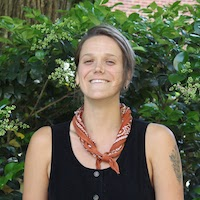
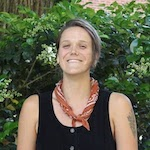
jpg > png

diff --git a/docs/js/app.14bae1c5.js b/docs/js/app.14bae1c5.js
@@ -1,0 +1,2 @@
+(function(e){function t(t){for(var i,o,s=t[0],c=t[1],p=t[2],l=0,g=[];l<s.length;l++)o=s[l],n[o]&&g.push(n[o][0]),n[o]=0;for(i in c)Object.prototype.hasOwnProperty.call(c,i)&&(e[i]=c[i]);f&&f(t);while(g.length)g.shift()();return r.push.apply(r,p||[]),a()}function a(){for(var e,t=0;t<r.length;t++){for(var a=r[t],i=!0,s=1;s<a.length;s++){var c=a[s];0!==n[c]&&(i=!1)}i&&(r.splice(t--,1),e=o(o.s=a[0]))}return e}var i={},n={app:0},r=[];function o(t){if(i[t])return i[t].exports;var a=i[t]={i:t,l:!1,exports:{}};return e[t].call(a.exports,a,a.exports,o),a.l=!0,a.exports}o.m=e,o.c=i,o.d=function(e,t,a){o.o(e,t)||Object.defineProperty(e,t,{enumerable:!0,get:a})},o.r=function(e){"undefined"!==typeof Symbol&&Symbol.toStringTag&&Object.defineProperty(e,Symbol.toStringTag,{value:"Module"}),Object.defineProperty(e,"__esModule",{value:!0})},o.t=function(e,t){if(1&t&&(e=o(e)),8&t)return e;if(4&t&&"object"===typeof e&&e&&e.__esModule)return e;var a=Object.create(null);if(o.r(a),Object.defineProperty(a,"default",{enumerable:!0,value:e}),2&t&&"string"!=typeof e)for(var i in e)o.d(a,i,function(t){return e[t]}.bind(null,i));return a},o.n=function(e){var t=e&&e.__esModule?function(){return e["default"]}:function(){return e};return o.d(t,"a",t),t},o.o=function(e,t){return Object.prototype.hasOwnProperty.call(e,t)},o.p="/";var s=window["webpackJsonp"]=window["webpackJsonp"]||[],c=s.push.bind(s);s.push=t,s=s.slice();for(var p=0;p<s.length;p++)t(s[p]);var f=c;r.push([0,"chunk-vendors"]),a()})({0:function(e,t,a){e.exports=a("cd49")},"034f":function(e,t,a){"use strict";var i=a("64a9"),n=a.n(i);n.a},"0dca":function(e,t,a){e.exports=a.p+"img/ufo.591753f5.gif"},"11ed":function(e,t,a){e.exports=a.p+"img/circuitboard.02f24088.jpg"},"1d16":function(e,t,a){e.exports=a.p+"img/meeee.9c725b47.jpg"},"1dc9":function(e,t,a){e.exports=a.p+"img/computer.efbd3b55.gif"},"1fa1":function(e,t,a){e.exports=a.p+"img/ella.69514ef7.jpg"},"24fa":function(e,t,a){e.exports=a.p+"img/gabe.80bfa76f.jpg"},"3b67":function(e,t,a){e.exports=a.p+"img/beezus.05785808.jpg"},"44c3":function(e,t,a){e.exports=a.p+"img/beau.1d4bcc6d.jpg"},"49c2":function(e,t,a){e.exports=a.p+"img/salmi.a2770a32.jpg"},"4ac8":function(e,t,a){e.exports=a.p+"img/ashley.92acf7e0.jpg"},5064:function(e,t,a){e.exports=a.p+"img/outofworld.2a2b74ed.gif"},"5d90":function(e,t,a){e.exports=a.p+"img/alan.59ff56a8.jpg"},"5ddb":function(e,t,a){e.exports=a.p+"img/redspacewebsite.a7899072.gif"},"64a9":function(e,t,a){},6607:function(e,t,a){e.exports=a.p+"img/mcvey.ec59c482.jpg"},7747:function(e,t,a){e.exports=a.p+"img/spaceshuttle.5e963f39.gif"},"7a98":function(e,t,a){"use strict";var i=a("9fdb"),n=a.n(i);n.a},"7be1":function(e,t,a){e.exports=a.p+"img/anthony.df59fc5e.jpg"},"82ae":function(e,t,a){e.exports=a.p+"img/ty.fffbc2c2.jpg"},"858c":function(e,t,a){e.exports=a.p+"img/georgia.ad725f4e.jpg"},"8d19":function(e,t,a){"use strict";var i=a("b733"),n=a.n(i);n.a},"9b5b":function(e,t,a){e.exports=a.p+"img/nam.e0a76e90.jpg"},"9bc1":function(e,t,a){e.exports=a.p+"img/pat.fbf27f7d.jpg"},"9fdb":function(e,t,a){},a0fa:function(e,t,a){e.exports=a.p+"img/flames.cea97b35.gif"},a5fb:function(e,t,a){e.exports=a.p+"img/pete.04b152ee.jpg"},a89d:function(e,t,a){e.exports=a.p+"img/sandy.0f112523.jpg"},abaf:function(e,t,a){e.exports=a.p+"img/kyle.54839a27.jpg"},ad9a:function(e,t,a){e.exports=a.p+"img/flashinglight.6b1b6b8d.gif"},aeb6:function(e,t,a){var i={"./alan.jpg":"5d90","./anthony.jpg":"7be1","./ashley.jpg":"4ac8","./beau.jpg":"44c3","./beezus.jpg":"3b67","./bluerock.jpg":"b068","./circuitboard.jpg":"11ed","./clea.jpg":"cf1f","./cody.jpg":"f69a","./computer.gif":"1dc9","./doot.gif":"e241","./duke.jpg":"bc44","./ella.jpg":"1fa1","./flames.gif":"a0fa","./flashinglight.gif":"ad9a","./floppy.gif":"f373","./gabe.jpg":"24fa","./georgia.jpg":"858c","./hackett.jpg":"f443","./hannah.jpg":"b3f7","./jenny.jpg":"d69b","./jonny.jpg":"dbe9","./kat.jpg":"cf8b","./kyle.jpg":"abaf","./lightning.gif":"de64","./mcvey.jpg":"6607","./meeee.jpg":"1d16","./nam.jpg":"9b5b","./outofworld.gif":"5064","./pat.jpg":"9bc1","./pete.jpg":"a5fb","./redspacewebsite.gif":"5ddb","./ryan.jpg":"b0e8","./salmi.jpg":"49c2","./sandy.jpg":"a89d","./spaceshuttle.gif":"7747","./stars.jpg":"dab0","./sydney.jpg":"e4c6","./ty.jpg":"82ae","./ufo.gif":"0dca","./zach.jpg":"da5c"};function n(e){var t=r(e);return a(t)}function r(e){var t=i[e];if(!(t+1)){var a=new Error("Cannot find module '"+e+"'");throw a.code="MODULE_NOT_FOUND",a}return t}n.keys=function(){return Object.keys(i)},n.resolve=r,e.exports=n,n.id="aeb6"},b068:function(e,t,a){e.exports=a.p+"img/bluerock.d6141890.jpg"},b0e8:function(e,t,a){e.exports=a.p+"img/ryan.4c1b44d3.jpg"},b3f7:function(e,t,a){e.exports=a.p+"img/hannah.6d48d3ad.jpg"},b733:function(e,t,a){},bc44:function(e,t,a){e.exports=a.p+"img/duke.923c68a8.jpg"},cb3d:function(e,t,a){},cd49:function(e,t,a){"use strict";a.r(t);a("cadf"),a("551c"),a("f751"),a("097d");var i=a("2b0e"),n=function(){var e=this,t=e.$createElement,a=e._self._c||t;return a("div",{attrs:{id:"space-heater"}},[a("Roster")],1)},r=[],o=a("d225"),s=a("308d"),c=a("6bb5"),p=a("4e2b"),f=a("9ab4"),l=a("60a3"),g=function(){var e=this,t=e.$createElement,i=e._self._c||t;return i("main",{ref:"roster",staticClass:"roster"},[i("header",[e._m(0),i("img",{attrs:{src:a("e241")}}),i("h1",[e._v("\n\t\t\tSpace Heater "),i("blink",[e._v("Ultimate")]),i("br"),i("img",{attrs:{src:a("5ddb")}})],1),i("img",{attrs:{src:a("e241")}}),i("img",{staticClass:"lightning",attrs:{src:a("de64")}})]),i("marquee",[e._v("Keeping things warm...")]),i("img",{attrs:{src:a("1dc9")}}),i("img",{attrs:{src:a("f373")}}),i("img",{attrs:{src:a("ad9a"),height:"50",width:"50"}}),i("img",{attrs:{src:a("7747")}}),i("section",[i("h1",{staticClass:"roster-heading"},[e._v("2019 Roster")]),e._m(1),i("ul",{staticClass:"player-list"},e._l(e.players,function(t){return i("li",{key:t.firstName+t.lastName},[i("Player",e._b({},"Player",t,!1))],1)}),0),i("img",{attrs:{src:a("a0fa")}}),i("img",{attrs:{src:a("a0fa")}}),i("img",{attrs:{src:a("a0fa")}})]),i("UFO")],1)},u=[function(){var e=this,t=e.$createElement,a=e._self._c||t;return a("nav",[a("ul",[a("li",[a("a",{attrs:{href:"team.html"}},[e._v("Team Bio")])]),a("li",[a("a",{attrs:{href:"schedule.html"}},[e._v("Tournament Schedule")])]),a("li",[a("a",{attrs:{href:"archives.html"}},[e._v("Roster Archives")])]),a("li",[a("a",{attrs:{href:"listserv.html"}},[e._v("Join our mailing list!")])])])])},function(){var e=this,t=e.$createElement,a=e._self._c||t;return a("dl",{staticClass:"key"},[a("dt",{staticClass:"key-symbol"},[e._v("*")]),a("dd",{staticClass:"key-meaning"},[e._v("Rookie")]),a("dt",{staticClass:"key-symbol"},[e._v("**")]),a("dd",{staticClass:"key-meaning"},[e._v("Captain")])])}],m=(a("55dd"),function(){var e=this,t=e.$createElement,a=e._self._c||t;return a("article",{ref:"el",staticClass:"player",attrs:{id:e.id}},[a("h1",{staticClass:"player-name"},[e.coach?a("span",[e._v("Coach")]):e._e(),e._v("\n\t\t"+e._s(e.firstName)+"\n\t\t"+e._s(e.lastName)+"\n\t\t"),e.rookie?a("span",[e._v("*")]):e._e(),e.captain?a("span",[e._v("**")]):e._e()]),a("a",{attrs:{href:"#"+e.id}},[a("img",{staticClass:"img",attrs:{src:e.getPlayerImgSrc(e.imageFile)}})])])}),d=[],b=(a("28a5"),a("b0b4"));var j=function(e){function t(){return Object(o["a"])(this,t),Object(s["a"])(this,Object(c["a"])(t).apply(this,arguments))}return Object(p["a"])(t,e),Object(b["a"])(t,[{key:"mounted",value:function(){var e=this;"#".concat(this.id)===location.hash&&window.addEventListener("load",function(){var t=e.$refs.el;t.scrollIntoView()})}},{key:"getPlayerImgSrc",value:function(e){var t=a("aeb6");return t("./"+e)}},{key:"id",get:function(){return this.imageFile.split(".")[0]}}]),t}(l["c"]);f["a"]([Object(l["b"])()],j.prototype,"firstName",void 0),f["a"]([Object(l["b"])()],j.prototype,"lastName",void 0),f["a"]([Object(l["b"])()],j.prototype,"imageFile",void 0),f["a"]([Object(l["b"])()],j.prototype,"coach",void 0),f["a"]([Object(l["b"])()],j.prototype,"captain",void 0),f["a"]([Object(l["b"])()],j.prototype,"rookie",void 0),j=f["a"]([l["a"]],j);var h=j,y=h,v=(a("fe70"),a("2877")),N=Object(v["a"])(y,m,d,!1,null,"60cbabaa",null),k=N.exports,x=function(){var e=this,t=e.$createElement,i=e._self._c||t;return i("aside",[i("link",{attrs:{rel:"prefetch",href:"../assets/ufo.gif"}}),e.show?i("img",{ref:"img",staticClass:"img",attrs:{width:"400",height:"400",src:a("0dca")}}):e._e()])},O=[],_=(a("96cf"),a("3b8d"));function F(e){var t=arguments.length>1&&void 0!==arguments[1]?arguments[1]:0;return Math.floor(Math.random()*Math.floor(e-t))+t}var w=function(e){function t(){var e;return Object(o["a"])(this,t),e=Object(s["a"])(this,Object(c["a"])(t).apply(this,arguments)),e.show=!1,e}return Object(p["a"])(t,e),Object(b["a"])(t,[{key:"mounted",value:function(){var e=Object(_["a"])(regeneratorRuntime.mark(function e(){return regeneratorRuntime.wrap(function(e){while(1)switch(e.prev=e.next){case 0:this.schedule();case 1:case"end":return e.stop()}},e,this)}));function t(){return e.apply(this,arguments)}return t}()},{key:"schedule",value:function(){var e=this,t=F(30,10);setTimeout(function(t){e.show=!0,l["c"].nextTick(function(){var a=100,i=100,n=e.$refs.img;n.style.top="".concat(a,"px"),n.style.left="".concat(i,"px"),console.debug("adding img",n,a,i,t),setTimeout(function(t){e.show=!1,e.schedule()},2e3)})},1e3*t)}}]),t}(l["c"]);w=f["a"]([l["a"]],w);var C=w,M=C,S=(a("7a98"),Object(v["a"])(M,x,O,!1,null,"45ebb20b",null)),P=S.exports,T=function(e){function t(){var e;return Object(o["a"])(this,t),e=Object(s["a"])(this,Object(c["a"])(t).apply(this,arguments)),e.coaches=[{firstName:"Ty",lastName:"Aderhold"}],e.players=[{firstName:"Ty",lastName:"Aderhold",imageFile:"ty.jpg",coach:!0},{firstName:"Ella",lastName:"Juengst",imageFile:"ella.jpg",rookie:!0},{firstName:"Theresa",lastName:"Hackett",imageFile:"hackett.jpg",rookie:!0},{firstName:"Pete",lastName:"MacArthur",imageFile:"pete.jpg",rookie:!0},{firstName:"Sydney",lastName:"Rehder",imageFile:"sydney.jpg",rookie:!0},{firstName:"Clea",lastName:"Poklemba",imageFile:"clea.jpg",rookie:!0},{firstName:"Megan",lastName:"McVey",imageFile:"mcvey.jpg",rookie:!0},{firstName:"Ryan",lastName:"Cooper",imageFile:"ryan.jpg",rookie:!0},{firstName:"Mia",lastName:"Greenwald",imageFile:"meeee.jpg",rookie:!0},{firstName:"Hannah",lastName:"Boone",imageFile:"hannah.jpg",rookie:!0},{firstName:"Gabe",lastName:"Westergren",imageFile:"gabe.jpg",rookie:!0},{firstName:"Beau",lastName:"De Koninck",imageFile:"beau.jpg",rookie:!0},{firstName:"Ashley",lastName:"Sylvester",imageFile:"ashley.jpg",rookie:!0},{firstName:"David “Duke”",lastName:"Boylan-Kolchin",imageFile:"duke.jpg"},{firstName:"Sandy",lastName:"Jorgensen",imageFile:"sandy.jpg"},{firstName:"Kelly “Beezus”",lastName:"Hyland",imageFile:"beezus.jpg"},{firstName:"Cody",lastName:"Johnston",imageFile:"cody.jpg"},{firstName:"Jonny",lastName:"Malks",imageFile:"jonny.jpg"},{firstName:"Georgia",lastName:"Bosscher",imageFile:"georgia.jpg"},{firstName:"Anthony",lastName:"McLean",imageFile:"anthony.jpg"},{firstName:"Alan",lastName:"Kolick",imageFile:"alan.jpg",captain:!0},{firstName:"Kat",lastName:"Sanz",imageFile:"kat.jpg"},{firstName:"Erik",lastName:"Salmi",imageFile:"salmi.jpg"},{firstName:"Jenny",lastName:"Fey",imageFile:"jenny.jpg",captain:!0},{firstName:"Pat",lastName:"Shriwise",imageFile:"pat.jpg"},{firstName:"Zach",lastName:"Norrbom",imageFile:"zach.jpg"},{firstName:"Kyle",lastName:"Khalifa",imageFile:"kyle.jpg"}].sort(function(){return.5-Math.random()}),e}return Object(p["a"])(t,e),t}(l["c"]);f["a"]([Object(l["b"])()],T.prototype,"msg",void 0),T=f["a"]([Object(l["a"])({components:{Player:k,UFO:P}})],T);var E=T,R=E,$=(a("8d19"),Object(v["a"])(R,g,u,!1,null,null,null)),z=$.exports,J=function(e){function t(){return Object(o["a"])(this,t),Object(s["a"])(this,Object(c["a"])(t).apply(this,arguments))}return Object(p["a"])(t,e),t}(l["c"]);J=f["a"]([Object(l["a"])({components:{Roster:z}})],J);var K=J,A=K,B=(a("034f"),Object(v["a"])(A,n,r,!1,null,null,null)),D=B.exports;i["a"].config.productionTip=!1,new i["a"]({render:function(e){return e(D)}}).$mount("#app")},cf1f:function(e,t,a){e.exports=a.p+"img/clea.ef6d3476.jpg"},cf8b:function(e,t,a){e.exports=a.p+"img/kat.d93a9f87.jpg"},d69b:function(e,t,a){e.exports=a.p+"img/jenny.5870fdd0.jpg"},da5c:function(e,t,a){e.exports=a.p+"img/zach.749b3c4f.jpg"},dab0:function(e,t,a){e.exports=a.p+"img/stars.af1da97a.jpg"},dbe9:function(e,t,a){e.exports=a.p+"img/jonny.f6fe5fbd.jpg"},de64:function(e,t,a){e.exports=a.p+"img/lightning.88e6dc46.gif"},e241:function(e,t,a){e.exports=a.p+"img/doot.cf797a73.gif"},e4c6:function(e,t,a){e.exports=a.p+"img/sydney.a003e602.jpg"},f373:function(e,t,a){e.exports=a.p+"img/floppy.0af634f6.gif"},f443:function(e,t,a){e.exports=a.p+"img/hackett.919e4f0f.jpg"},f69a:function(e,t,a){e.exports=a.p+"img/cody.b6c94d7e.jpg"},fe70:function(e,t,a){"use strict";var i=a("cb3d"),n=a.n(i);n.a}});
+//# sourceMappingURL=app.14bae1c5.js.map

diff --git a/src/components/Roster.vue b/src/components/Roster.vue
@@ -17,13 +17,13 @@
 					</li>
 				</ul>
 			</nav>
-			<img src="../assets/skulltrumpet.gif" />
+			<img src="../assets/doot.gif" />
 			<h1>
 				Space Heater <blink>Ultimate</blink>
 				<br />
 				<img src="../assets/redspacewebsite.gif" />
 			</h1>
-			<img src="../assets/skulltrumpet.gif" />
+			<img src="../assets/doot.gif" />
 			<img src="../assets/lightning.gif" class="lightning" />
 		</header>
 		<marquee>Keeping things warm...</marquee>
@@ -83,25 +83,25 @@ export default class Roster extends Vue {
 		{
 			firstName: 'Ty',
 			lastName: 'Aderhold',
-			imageFile: 'ty.png',
+			imageFile: 'ty.jpg',
 			coach: true,
 		},
 		{
 			firstName: 'Ella',
 			lastName: 'Juengst',
-			imageFile: 'ella.png',
+			imageFile: 'ella.jpg',
 			rookie: true,
 		},
 		{
 			firstName: 'Theresa',
 			lastName: 'Hackett',
-			imageFile: 'hackett.png',
+			imageFile: 'hackett.jpg',
 			rookie: true,
 		},
 		{
 			firstName: 'Pete',
 			lastName: 'MacArthur',
-			imageFile: 'pete.png',
+			imageFile: 'pete.jpg',
 			rookie: true,
 		},
 		{
@@ -125,7 +125,7 @@ export default class Roster extends Vue {
 		{
 			firstName: 'Ryan',
 			lastName: 'Cooper',
-			imageFile: 'ryan.png',
+			imageFile: 'ryan.jpg',
 			rookie: true,
 		},
 		{
@@ -149,13 +149,13 @@ export default class Roster extends Vue {
 		{
 			firstName: 'Beau',
 			lastName: 'De Koninck',
-			imageFile: 'beau.png',
+			imageFile: 'beau.jpg',
 			rookie: true,
 		},
 		{
 			firstName: 'Ashley',
 			lastName: 'Sylvester',
-			imageFile: 'ashley.png',
+			imageFile: 'ashley.jpg',
 			rookie: true,
 		},
 		{
@@ -181,28 +181,28 @@ export default class Roster extends Vue {
 		{
 			firstName: 'Jonny',
 			lastName: 'Malks',
-			imageFile: 'jonny.png',
+			imageFile: 'jonny.jpg',
 		},
 		{
 			firstName: 'Georgia',
 			lastName: 'Bosscher',
-			imageFile: 'georgia.png',
+			imageFile: 'georgia.jpg',
 		},
 		{
 			firstName: 'Anthony',
 			lastName: 'McLean',
-			imageFile: 'anthony.png',
+			imageFile: 'anthony.jpg',
 		},
 		{
 			firstName: 'Alan',
 			lastName: 'Kolick',
-			imageFile: 'alan.png',
+			imageFile: 'alan.jpg',
 			captain: true,
 		},
 		{
 			firstName: 'Kat',
 			lastName: 'Sanz',
-			imageFile: 'kat.png',
+			imageFile: 'kat.jpg',
 		},
 		{
 			firstName: 'Erik',
@@ -212,7 +212,7 @@ export default class Roster extends Vue {
 		{
 			firstName: 'Jenny',
 			lastName: 'Fey',
-			imageFile: 'jenny.png',
+			imageFile: 'jenny.jpg',
 			captain: true,
 		},
 		{
@@ -258,7 +258,7 @@ h1 {
 	margin: 1em;
 }
 
-[src*='skulltrumpet']:not(:first-of-type) {
+[src*='doot']:not(:first-of-type) {
 	transform: scaleX(-1);
 	max-width: 100%;
 }
@@ -296,7 +296,7 @@ nav a:visited {
 		justify-content: center;
 	}
 
-	[src*='skulltrumpet']:not(:first-of-type) {
+	[src*='doot']:not(:first-of-type) {
 	}
 
 	nav {

diff --git a/docs/index.html b/docs/index.html
@@ -1,1 +1,1 @@
-<!DOCTYPE html><html lang=en><head><meta charset=utf-8><meta http-equiv=X-UA-Compatible content="IE=edge"><meta name=viewport content="width=device-width,initial-scale=1"><link rel=icon href=/favicon.ico><link rel=icon type=image/png href=/favicon-196x196.png sizes=196x196><link rel=icon type=image/png href=/favicon-32x32.png sizes=32x32><link rel=icon type=image/png href=/favicon-16x16.png sizes=16x16><link rel=icon type=image/png href=/favicon-128x128.png sizes=128x128><title>Space Heater Ultimate Frisbee Team</title><link href=/css/app.3a4ff26f.css rel=preload as=style><link href=/js/app.8b7f064d.js rel=preload as=script><link href=/js/chunk-vendors.a46eebaa.js rel=preload as=script><link href=/css/app.3a4ff26f.css rel=stylesheet></head><body><noscript><strong>We're sorry but space-heater doesn't work properly without JavaScript enabled. Please enable it to continue.</strong></noscript><div id=app></div><script src=/js/chunk-vendors.a46eebaa.js></script><script src=/js/app.8b7f064d.js></script></body></html>
+<!DOCTYPE html><html lang=en><head><meta charset=utf-8><meta http-equiv=X-UA-Compatible content="IE=edge"><meta name=viewport content="width=device-width,initial-scale=1"><link rel=icon href=/favicon.ico><link rel=icon type=image/png href=/favicon-196x196.png sizes=196x196><link rel=icon type=image/png href=/favicon-32x32.png sizes=32x32><link rel=icon type=image/png href=/favicon-16x16.png sizes=16x16><link rel=icon type=image/png href=/favicon-128x128.png sizes=128x128><title>Space Heater Ultimate Frisbee Team</title><link href=/css/app.5d3bd2fe.css rel=preload as=style><link href=/js/app.14bae1c5.js rel=preload as=script><link href=/js/chunk-vendors.a46eebaa.js rel=preload as=script><link href=/css/app.5d3bd2fe.css rel=stylesheet></head><body><noscript><strong>We're sorry but space-heater doesn't work properly without JavaScript enabled. Please enable it to continue.</strong></noscript><div id=app></div><script src=/js/chunk-vendors.a46eebaa.js></script><script src=/js/app.14bae1c5.js></script></body></html>

diff --git a/docs/css/app.5d3bd2fe.css b/docs/css/app.5d3bd2fe.css
@@ -1,0 +1,1 @@
+.player[data-v-60cbabaa]:target{outline:.3em double #0ff}.img[data-v-60cbabaa]{width:100%}.img[data-v-45ebb20b]{position:absolute;top:0;left:0;max-width:100vw;max-height:100vw;pointer-events:none}.roster{text-align:center;color:orange;--gutter-size:4em}header{display:-webkit-inline-box;display:-ms-inline-flexbox;display:inline-flex;-webkit-box-align:center;-ms-flex-align:center;align-items:center;margin:0 auto;font-family:Comic Sans MS,Comic Sans,cursive;color:#ff0;position:static}h1{margin:1em}[src*=doot]:not(:first-of-type){-webkit-transform:scaleX(-1);transform:scaleX(-1);max-width:100%}nav{color:#f0f;-webkit-box-flex:0;-ms-flex:none;flex:none;margin-right:1em;position:absolute;left:var(--gutter-size);white-space:nowrap;text-align:left}nav a{color:inherit}nav a:visited{color:#00f}.lightning{position:absolute;right:0}@media (max-width:768px){.roster{--gutter-size:2em}header{-ms-flex-wrap:wrap;flex-wrap:wrap;-webkit-box-pack:center;-ms-flex-pack:center;justify-content:center}nav{-webkit-transform:translateY(-100%);transform:translateY(-100%)}.lightning{-webkit-transform:translateY(100%);transform:translateY(100%)}}.player-list{display:grid;gap:calc(var(--gutter-size)/2);grid-template-columns:repeat(auto-fit,minmax(250px,1fr));padding:0}main{padding:var(--gutter-size);background-image:url(../img/stars.af1da97a.jpg)}blink{-webkit-animation:blink 1s steps(5,start) infinite;animation:blink 1s steps(5,start) infinite}@-webkit-keyframes blink{to{visibility:hidden}}@keyframes blink{to{visibility:hidden}}.key{margin-top:0;display:inline-grid;grid-template-rows:repeat(2,auto);grid-template-columns:repeat(2,auto)}.key-symbol{text-align:right}.key-symbol:after{content:"=";margin:0 .3em}.key-meaning{display:inline;margin:0}.roster-heading{margin-bottom:0}marquee{font-style:italic;font-family:Arial Black,Gadget,sans-serif}body{margin:0}
